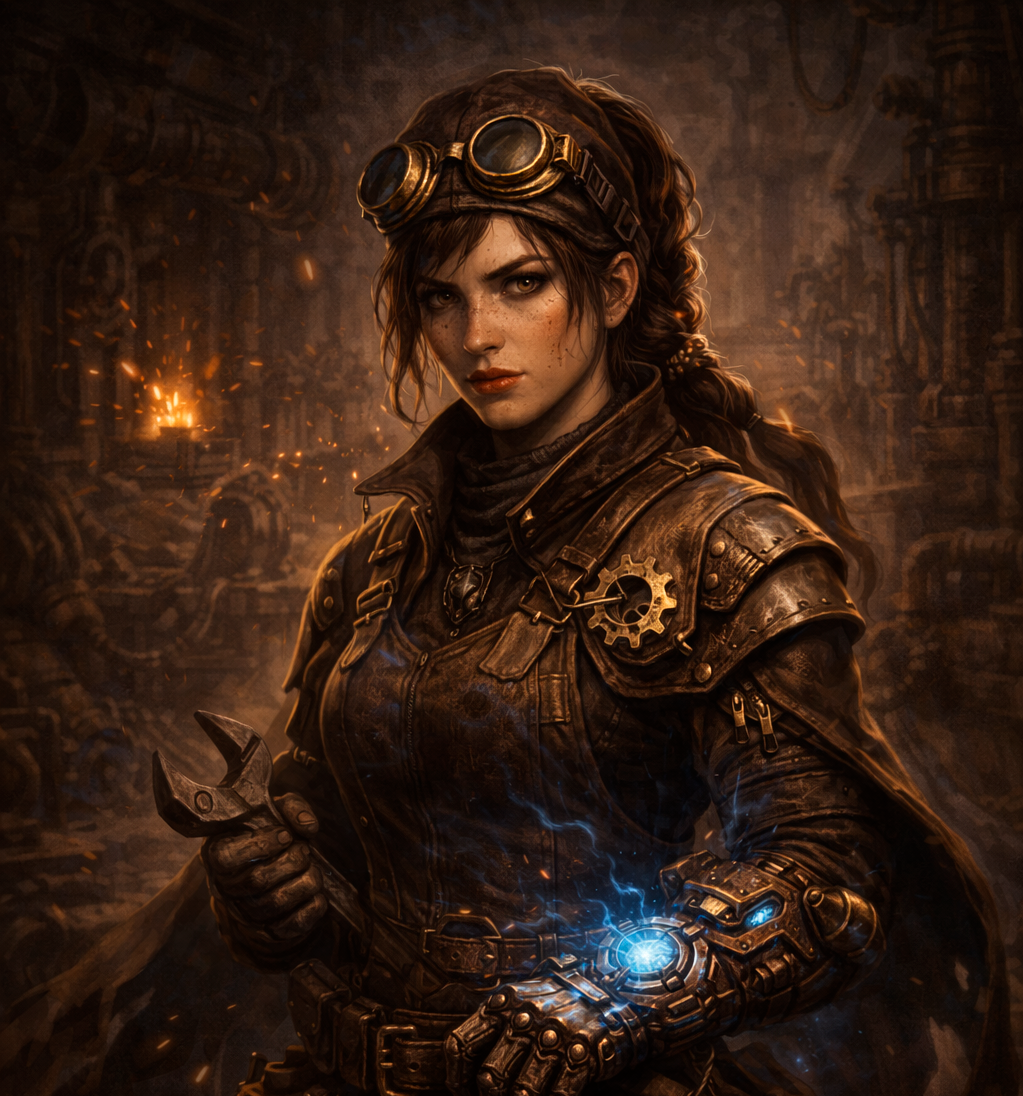
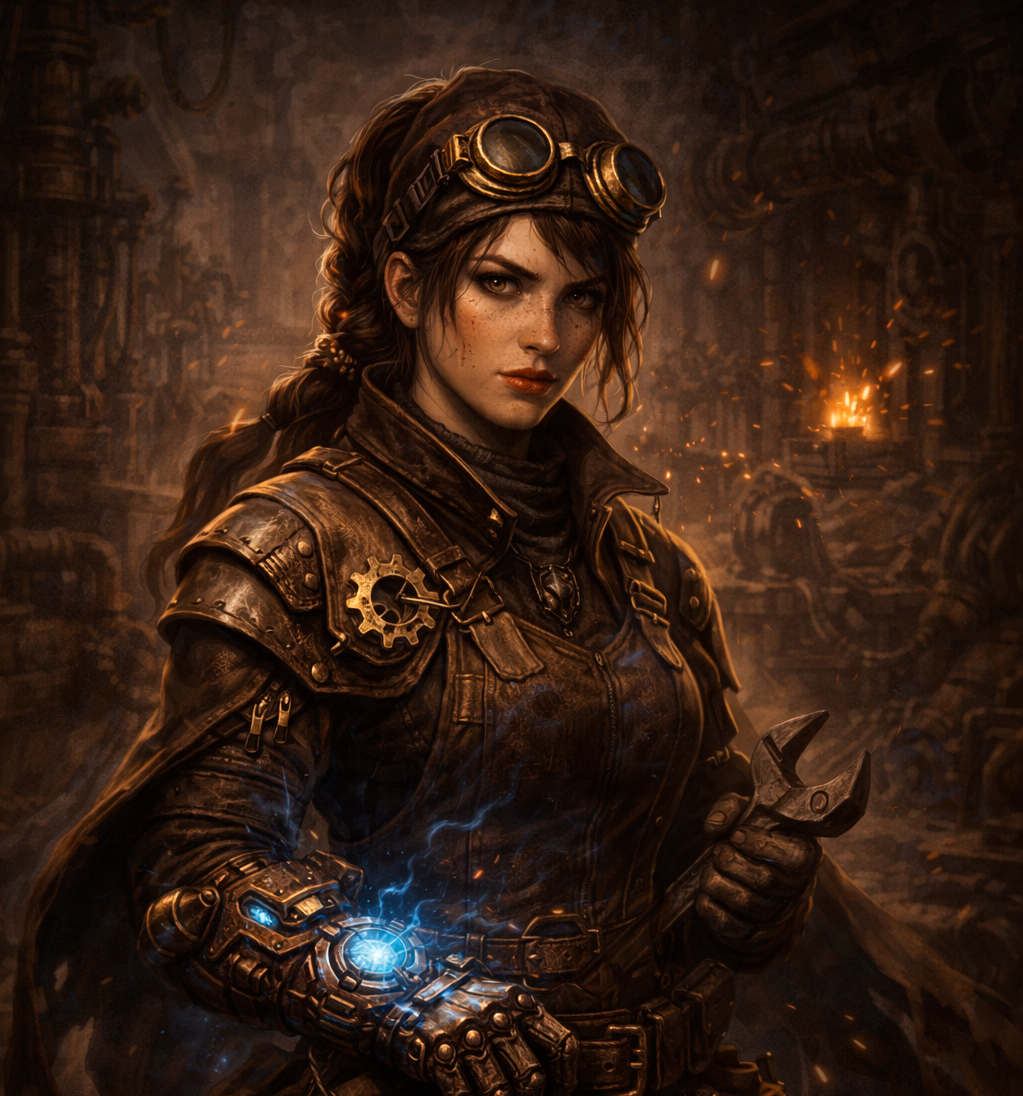
Ajustar Evelyn en juego y aumentar zoom de avatares

diff --git a/index.html b/index.html
@@ -140,7 +140,7 @@
 <main class="stage">
 <div aria-label="Mapa del juego" class="map" id="map">
 <img alt="Personaje seleccionado" class="buster-img" id="playerImg" src="images/buster1.PNG"/>
-<img alt="Personaje rival" class="rival-img hidden" id="rivalImg" src="images/Evelyn.PNG"/>
+<img alt="Personaje rival" class="rival-img hidden" id="rivalImg" src="images/Evelyn.png"/>
 </div>
 </main>
 <!-- Equipo (6) debajo del mapa -->

diff --git a/style.css b/style.css
@@ -460,7 +460,7 @@ img{ max-width:100%; height:auto; }
   width: 100%;
   height: 100%;
   object-fit: cover;
-  transform: scale(1.55);
+  transform: scale(1.9);
   transform-origin: center;
 }
 .avatar-option.active{
